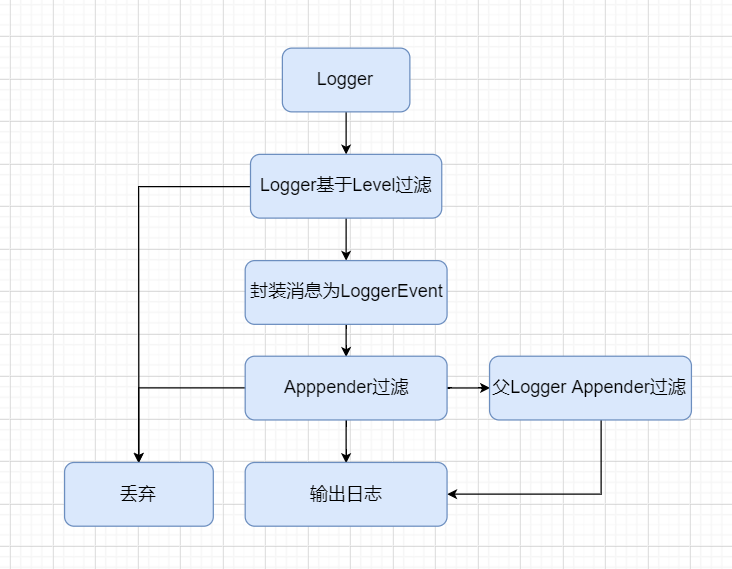
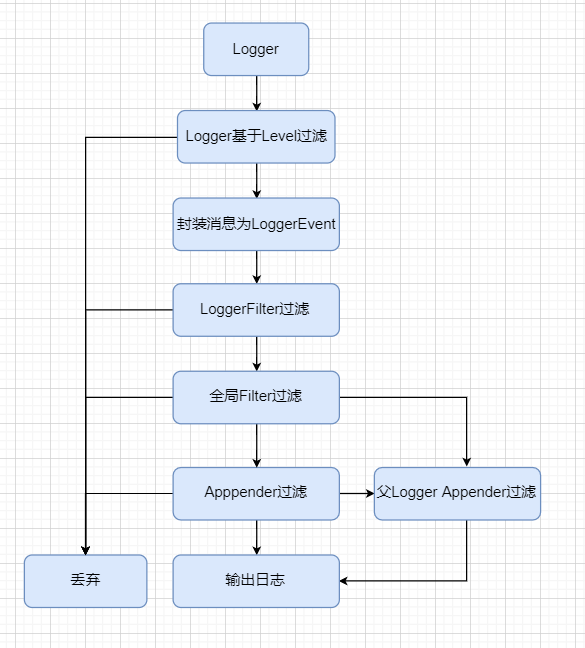
补充文档

diff --git a/slog-core/src/main/java/com/nineya/slog/tool/FileTool.java b/slog-core/src/main/java/com/nineya/slog/tool/FileTool.java
@@ -24,6 +24,17 @@ public class FileTool {
     }
 
     /**
+     * 判断文件所在的路径是否存在，如果不存在则创建该路径
+     * @param filePath 文件所在的路径
+     */
+    public static void createFileFolder(String filePath){
+        File file = new File(filePath).getParentFile();
+        if (!file.exists()){
+            file.mkdirs();
+        }
+    }
+
+    /**
      * 判断路径是不是文件夹
      * @param path 路径
      * @return true 是文件夹，false不是

diff --git a/slog-core/src/main/java/com/nineya/slog/appender/FileAppender.java b/slog-core/src/main/java/com/nineya/slog/appender/FileAppender.java
@@ -58,7 +58,8 @@ public abstract class FileAppender extends AppenderSkeleton {
      * @param fileName fileName
      */
     public void setFileName(String fileName) {
-        this.fileName = FileTool.jarWholePath() + fileName;
+        FileTool.createFileFolder(fileName);
+        this.fileName = fileName;
         if (datePattern != null){
             buildRunTime();
         }

diff --git a/docs/filter-logger.md b/docs/filter-logger.md
@@ -1,1 +1,34 @@
 ## 使用Filter
+
+### Filter介绍
+
+Filter是Slog的核心功能，通过Filter可以灵活的控制日志的输出，首先对日志记录器进行简要介绍。
+
+在Slog中过滤器可归为四类：
+
+- LoggerLevel：日志输出时经过的第一次过滤，作用域为单个Logger，用于控制Logger输出的最小的日志级别，`LoggerLevel`是一个不是过滤器的过滤器，因为他并没有继承`	Filter`抽象类；
+- LoggerFilter：该过滤器作用域为单个Logger，实际上`LoggerFilter`的过滤是和`LoggerLevel`同时开始的，但是为了方便修改`LoggerLevel`的过滤级别，所以并没有将起封装成过滤器；
+- WholeFilter：全局过滤器，该过滤器对所有的Logger的Appender都起作用，作用域为整个`Slog`，该过滤器在`LoggerFilter`之后执行过滤。
+- AppenderFilter：Appender过滤器在日志消息被传送到Appender，即将被输出时进行过滤，通过该过滤后日志将被打印输出。
+
+![日志输出流程](img/logger-filter.png)
+
+
+
+### Filter的链式结构
+
+![Filter的链式结构](img/link-filter.png)
+
+如上图，每个级别都可能存在多个过滤器，`Filter`采用链的数据结构，slog存储`headFilter`首个过滤器节点的引用，当进行过滤时需要通过整条Filter为通过过滤。
+
+
+
+### 基础API
+
+| 方法                                         | 说明                                     |
+| -------------------------------------------- | ---------------------------------------- |
+| public void setNextFilter(Filter nextFilter) | 设施下一个过滤器的引用                   |
+| public Filter getNextFilter()                | 取得下一个过滤器的引用                   |
+| public boolean decide(LoggingEvent event)    | 执行过滤，遍历从当前过滤器开始的过滤器链 |
+| private boolean doDecide(LoggingEvent event) | 当前过滤器实际上的过滤判断条件           |
+

diff --git a/docs/know-slog.md b/docs/know-slog.md
@@ -30,8 +30,6 @@
 
 ![日志输出流程](img/logger-filter.png)
 
-上图是一条日志消息输出的流程，一条日志消息要输出出来，他将经过`Logger`和`Appender`的两次过滤，两次过滤都满足条件之后才会输出。
+之所以在这里描述消息过滤是因为这个至关重要，消息的过滤与控制是本日志框架的核心功能。上图是一条日志消息输出的流程，一条日志消息要输出出来，它将经过过滤，通过所有过滤之后才可以进行输出。
 
-第一次`Logger`的过滤是基于`Node`实现的Logger Level的过滤，如果未达到日志记录器要求的最低日志打印级别，那么该消息将被直接丢弃，也不会遍历父日志记录器。
-
-第二次`Appender`过滤在通过Logger Level过滤之后进行，消息没有通过`Appender`过滤仍将遍历父`Appender`过滤器。值得注意的是遍历的是父日志记录器的`Appender`，并非再通过父日志记录器进行输出，所以父日志记录器过滤的时候将不会进行Logger Level的过滤。
+首先，在生成一条日志消息时会对LoggerLevel进行过滤，如果过滤未通过则直接丢弃该条消息，这是最基础的过滤。通过过滤后将消息封装为`LoggerEvent`，接下来它将面临三层过滤。第一层是`LoggerFilter`的过滤，该过滤器对当前Logger有效，对父Logger无效；第二层是`全局Logger`，该过滤器对所有`Logger`的所有`Appender`都有效；通过这两层过滤后，消息将被传送给`Appender`，`Appender`将对`LoggerEvent`进行最后一次过滤，这次过滤通过后进行日志输出。
